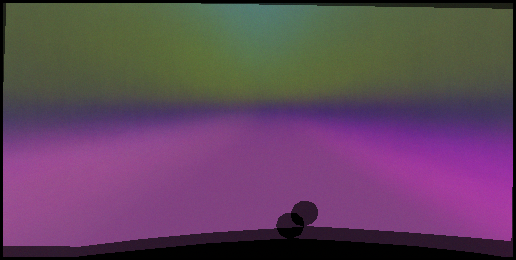
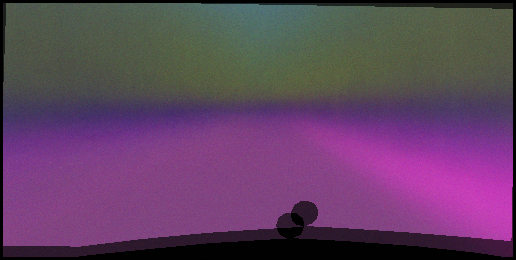
generate map

Changed region(s): [[0.6512, 0.5538, 1.0, 0.9231], [0.0, 0.5231, 0.2791, 0.8308]]

diff --git a/generate_map.py b/generate_map.py
@@ -31,8 +31,9 @@ def get_avg_encodings(model):
 
 def generate_encoding(avg):
     encoding = np.copy(avg)
-    idx = np.random.choice(encoding.size)
-    encoding[0,idx] = encoding[0, idx] + np.random.rand()
+    idx = np.random.choice(encoding.size, 10)
+    for i in idx:
+        encoding[0,i] = encoding[0, i] + np.random.rand()
     return torch.from_numpy(encoding)
 
 class VAE(nn.Module):
